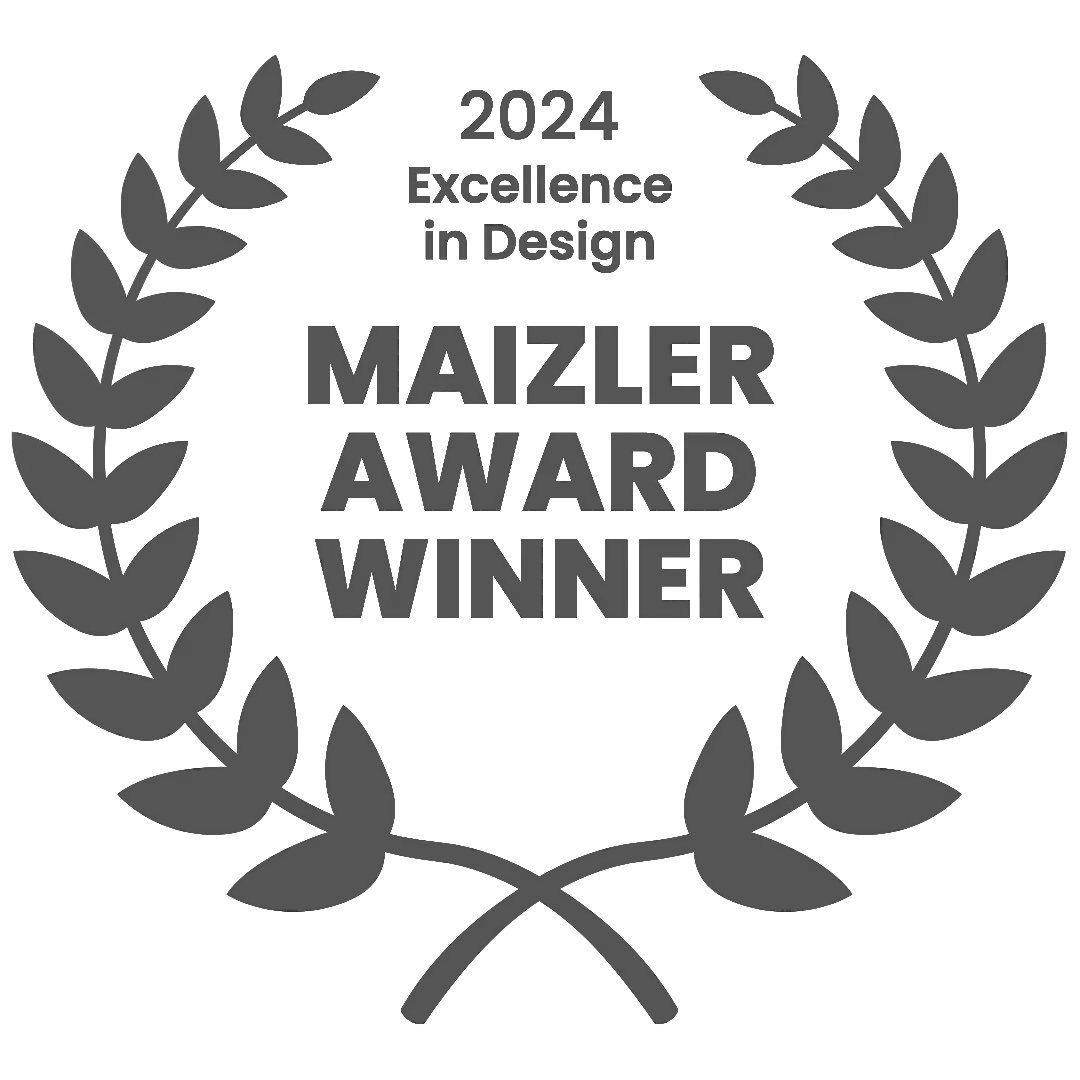
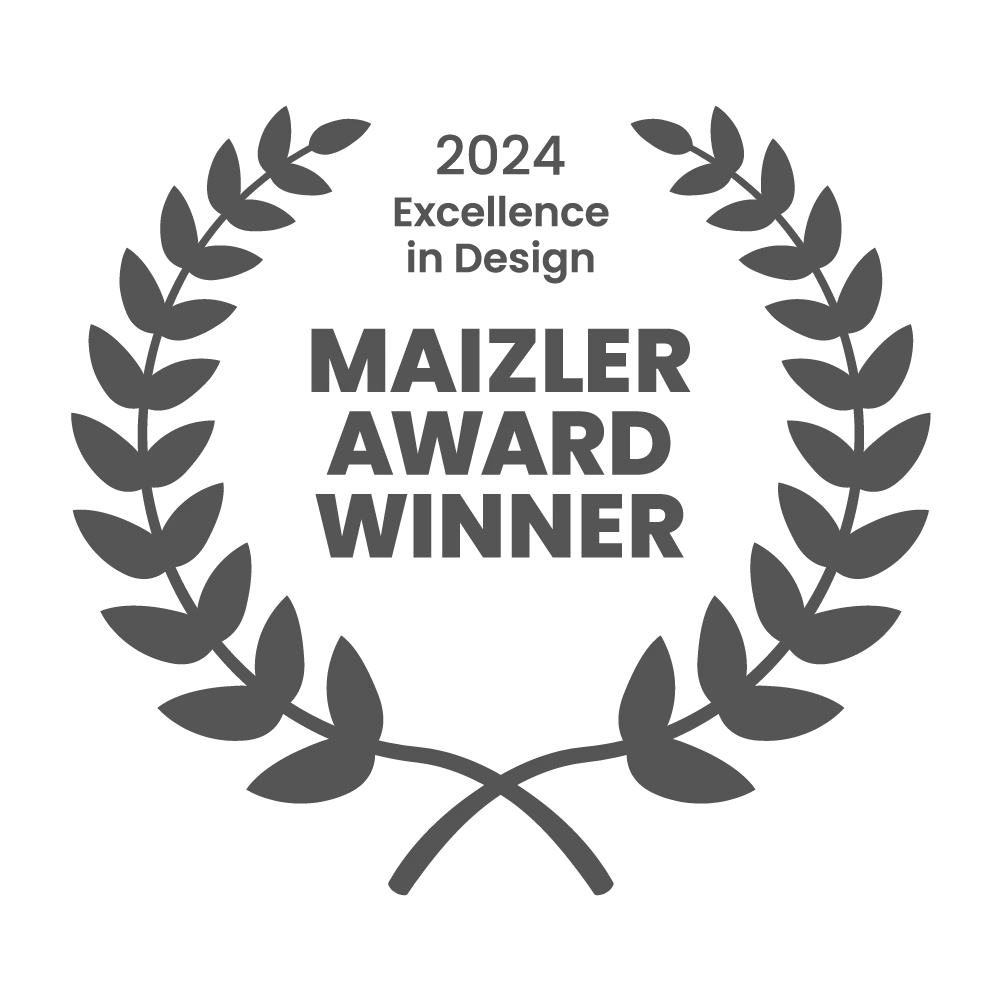
Update badges and assets for Breaking News project
Replaced several badge images with new grey versions and removed obsolete assets. Updated projectsData.js to reference the new badge files for the Breaking News project.

Changed region(s): [[0.0, 0.031, 0.991, 0.96]]

diff --git a/src/data/projectsData.js b/src/data/projectsData.js
@@ -16,9 +16,11 @@ const projectsData = [
       { title: "Bezalel News", link: "https://www.bezalel.ac.il/en/news/662015" },
     ],
     badges: [
-      require('../assets/breaking-news-assets/badges/bezalel-maizler-excellence-in-design-grey-with-logo.webp'),
+      require('../assets/breaking-news-assets/badges/tisff-best-digital-project-grey.webp'),
+      require('../assets/breaking-news-assets/badges/a-maze-audience-award-grey.webp'),
+      require('../assets/breaking-news-assets/badges/gdwc-winner-best-student-game-grey.webp'),
       require('../assets/breaking-news-assets/badges/boston-fig-excellence-in-design-grey.webp'),
-      require('../assets/breaking-news-assets/badges/gdwc-winner-best-student-game.webp'),
+      require('../assets/breaking-news-assets/badges/bezalel-maizler-excellence-in-design-grey.webp'),
     ],
     gallery: [
       require('../assets/breaking-news-assets/gameplay-screenshots/BreakingNewsScreenshot1.webp'),
